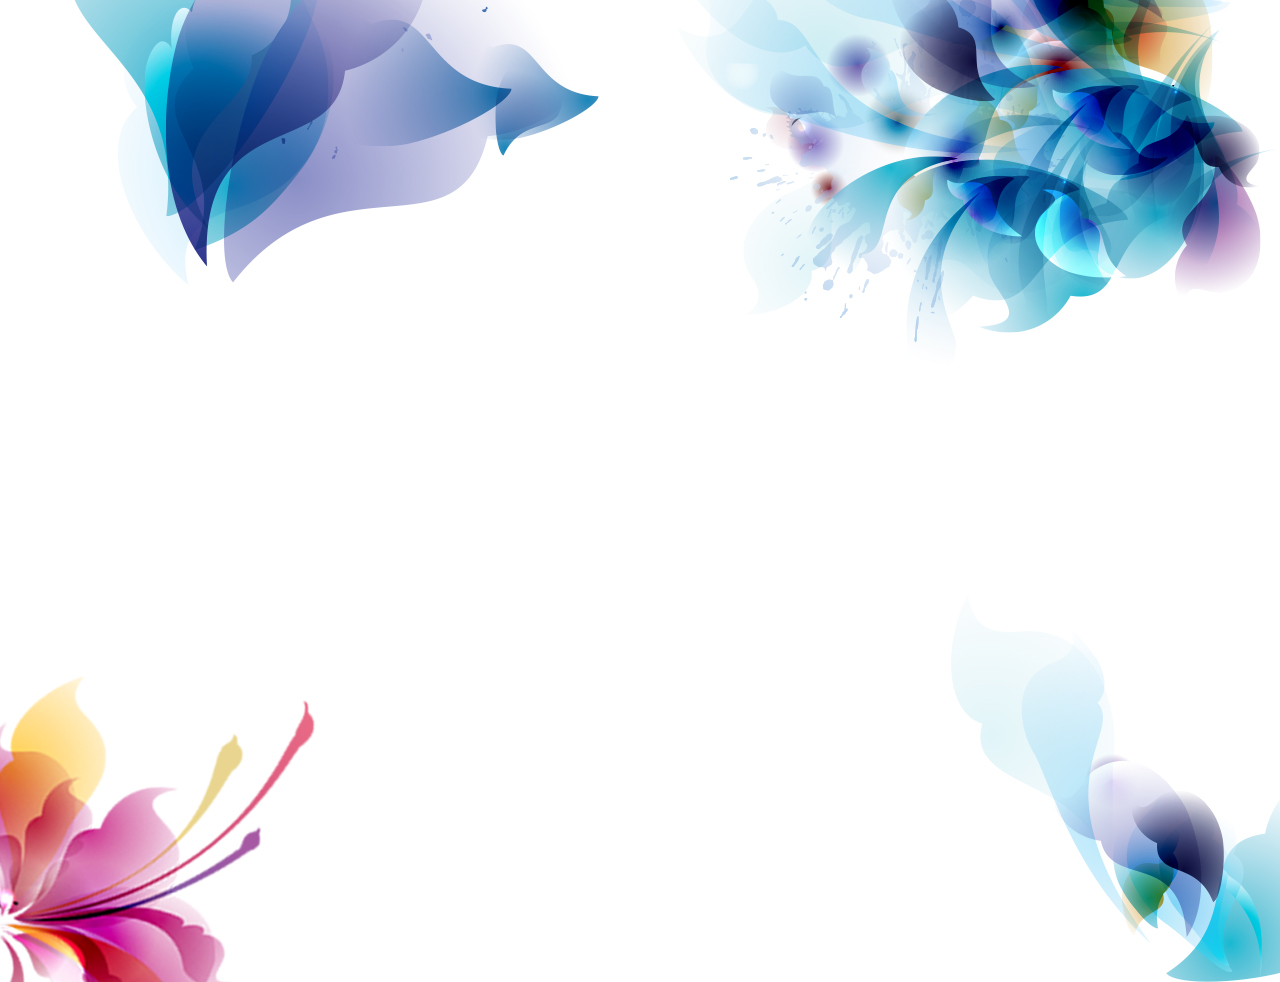
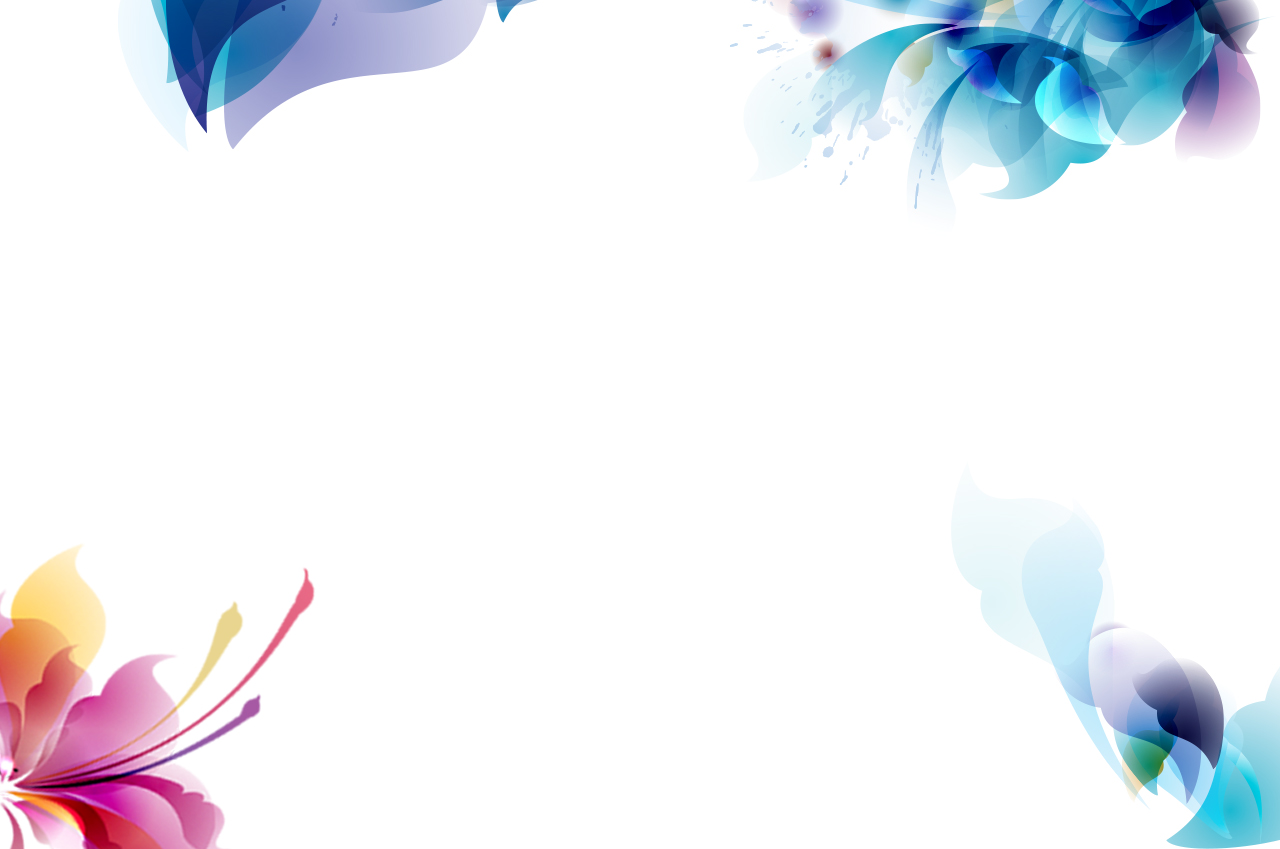
fix bg image of 4 section add color active of menu item

diff --git a/css/asianbeauty.css b/css/asianbeauty.css
@@ -61,10 +61,10 @@
 #header {
     background: #fff url(../img/header-border.jpg) repeat-x 0 100%;
     left: 0;
-    padding-bottom: 10px;
+    padding-bottom: 5px;
     position: fixed;
     top: 0;
-    z-index: 3;
+    z-index: 6;
 }
 
 #nav {
@@ -91,6 +91,10 @@
     padding: 0 18px 0 12px;
 }
 
+    .navbar .nav-item:hover, .navbar .nav-item:focus, .navbar .nav-item.active {
+        color: #2e3192;
+    }
+
 .navbar li:last-child .nav-item {
     padding-right: 0;
 }
@@ -115,8 +119,9 @@
 
 #intro {
     background: url(../img/intro-bg.jpg) 50% 0 no-repeat fixed;
-    height: 916px;
+    height: 948px;
     padding-top: 112px;
+    z-index: 1;
 }
 
     #intro .intro-content {
@@ -156,8 +161,9 @@
 
 #who-exhibits {
     background: url(../img/exhibit-bg.jpg) 50% 0 no-repeat fixed;
-    height: 770px;
+    height: 918px;
     position: relative;
+    z-index: 2;
 }
 
     #who-exhibits .exhibits-content {
@@ -264,8 +270,9 @@
 
 #visitor {
     background: url(../img/visitor-bg.jpg) 50% 0 no-repeat fixed;
-    height: 996px;
+    height: 981px;
     position: relative;
+    z-index: 3;
 }
 
     #visitor .visitor-content {
@@ -355,8 +362,9 @@
 
 #about {
     background: url(../img/about-bg.jpg) 50% 0 no-repeat fixed;
-    height: 982px;
+    height: 849px;
     position: relative;
+    z-index: 4;
 }
 
     #about .about-content {
